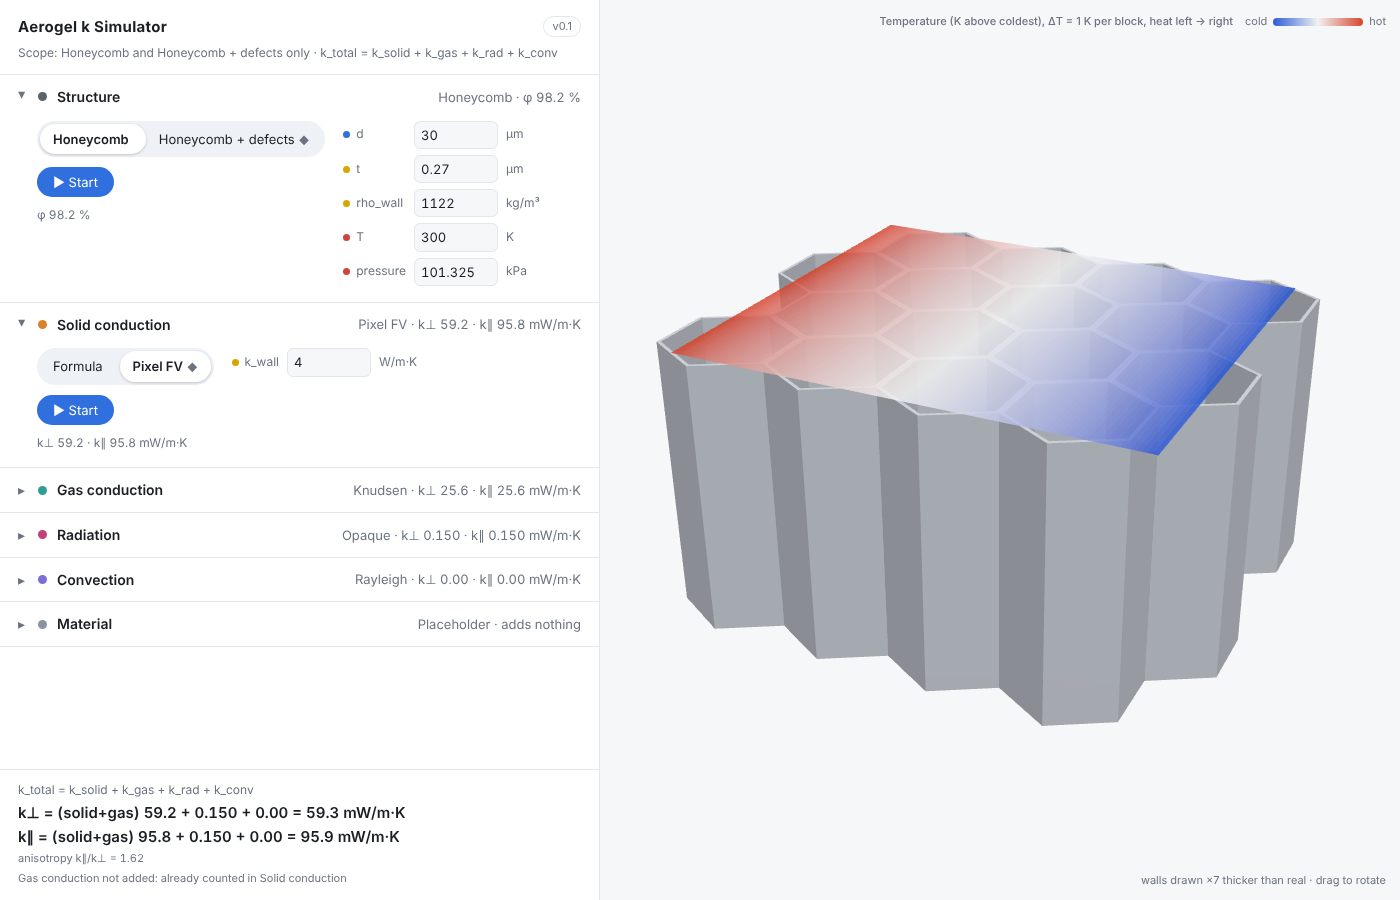
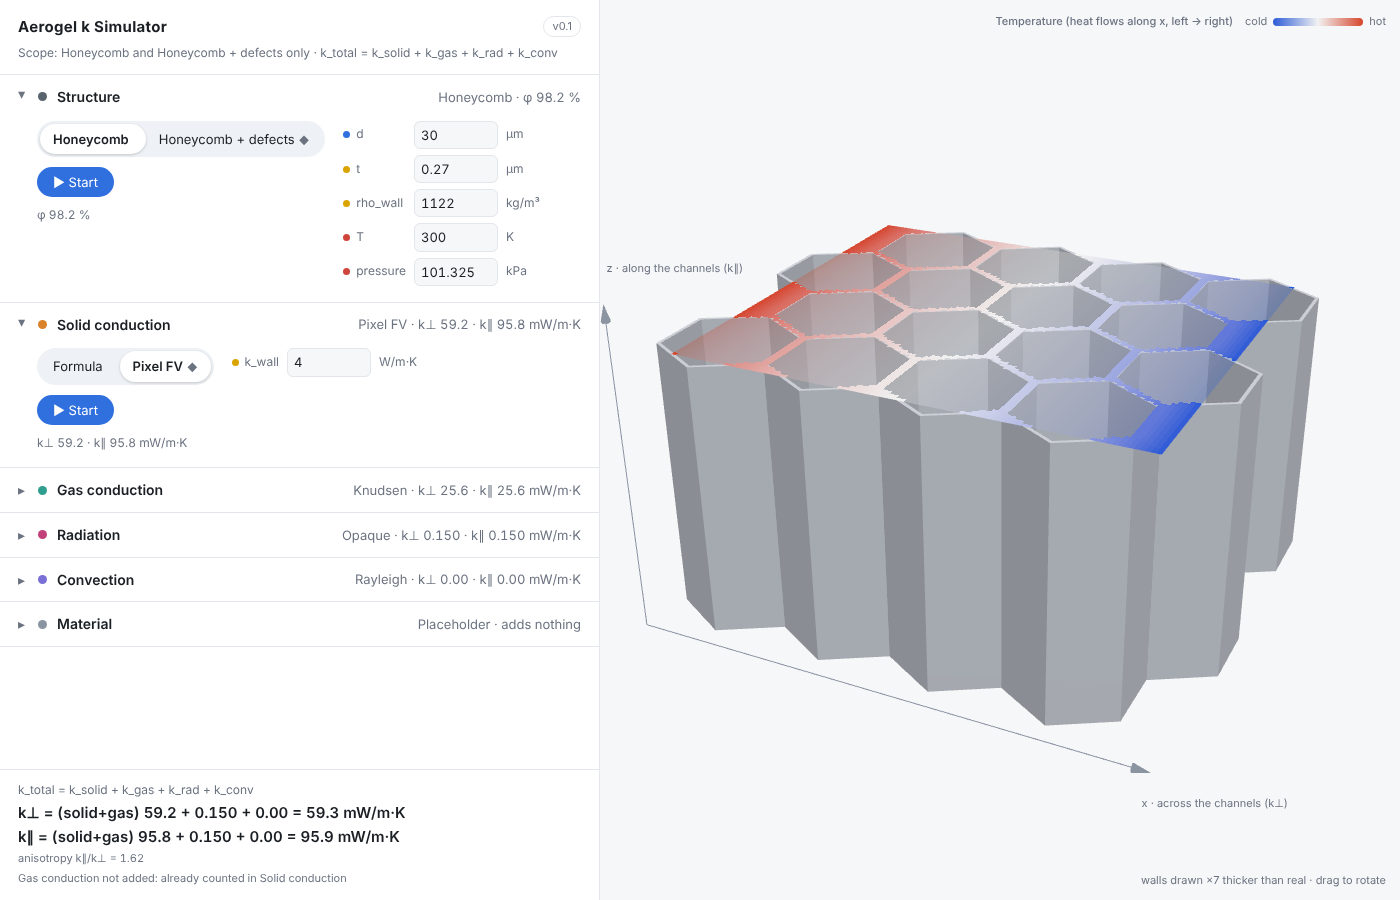
Fix 3D view and labels; list open issues in README; note GNSS clean-up
- Field overlay is solid on wall tops and faint over the air, so the channels
  stay visible instead of being covered by a lid.
- Axis arrows label z (along, k∥) and x (across, k⊥); words from ui_text.py.
- Shorter temperature legend; labels clipped to the 3D view.
- README: Notes and unfinished issues (gas pore-size definition, hypothetical
  ray-tracing inputs, unverified page numbers, staircase, measured gap, repo
  housekeeping). No new backend methods.
- HANDOVER: record the GNSS folder removal and the remaining branches.

Claude-Session: https://claude.ai/code/session_0143oVsGXh4V8fwmnWfhskgN

diff --git a/web/app.js b/web/app.js
@@ -169,6 +169,12 @@ const wallMat = new THREE.MeshStandardMaterial({ color: 0xd9dde3, roughness: 0.6
 const DEPTH = 3;   // scene units along the channels
 let box = [1, 1];  // block size in µm, from the backend
 let scale = 1;     // scene units per µm
+let isWall = () => true; // (fx, fy) in 0..1 of the block → is there wall here? (for the field overlay)
+
+// Flat-to-flat size of the hexagon (pointy-top, flats facing ±x) that passes through (dx, dy).
+function hexSize(dx, dy) {
+  return 2 * Math.max(Math.abs(dx), Math.abs(0.5 * dx + 0.866 * dy), Math.abs(-0.5 * dx + 0.866 * dy));
+}
 
 function hexPoints(r, cx, cy) {
   const p = [];
@@ -194,6 +200,11 @@ function buildStructure(geo) {
       return s;
     });
     group.add(new THREE.Mesh(new THREE.ExtrudeGeometry(shapes, { depth: DEPTH, bevelEnabled: false }), wallMat));
+    isWall = (fx, fy) => {
+      const x = fx * box[0], y = fy * box[1];
+      const h = Math.min(...geo.centres.map(([cx, cy]) => hexSize(x - cx, y - cy)));
+      return h > geo.pitch - geo.wall;
+    };
   } else if (geo.kind === "pixels") {
     const ny = geo.wall.length, nx = geo.wall[0].length, w = box[0] / nx * scale, h = box[1] / ny * scale;
     let count = 0;
@@ -208,8 +219,10 @@ function buildStructure(geo) {
       }
     });
     group.add(mesh);
+    isWall = (fx, fy) => geo.wall[Math.min(ny - 1, Math.floor(fy * ny))][Math.min(nx - 1, Math.floor(fx * nx))] === "1";
   }
   group.position.y = -DEPTH / 2;
+  placeAxes();
 }
 
 let fieldMesh = null;
@@ -227,17 +240,40 @@ function showField(field) {
   rows.forEach((line, j) => line.forEach((v, i) => {
     const f = v === null || hi === lo ? 0.5 : (v - lo) / (hi - lo);
     if (f < 0.5) c.lerpColors(blue, white, f * 2); else c.lerpColors(white, red, f * 2 - 1);
-    data.set([c.r * 255, c.g * 255, c.b * 255, 215], (j * nx + i) * 4);
+    const alpha = v === null ? 0 : isWall((i + 0.5) / nx, (j + 0.5) / ny) ? 255 : 70;
+    data.set([c.r * 255, c.g * 255, c.b * 255, alpha], (j * nx + i) * 4);
   }));
   const tex = new THREE.DataTexture(data, nx, ny);
   tex.needsUpdate = true;
   fieldMesh = new THREE.Mesh(new THREE.PlaneGeometry(box[0] * scale, box[1] * scale),
-    new THREE.MeshBasicMaterial({ map: tex, transparent: true, side: THREE.DoubleSide }));
+    new THREE.MeshBasicMaterial({ map: tex, transparent: true, depthWrite: false, side: THREE.DoubleSide }));
   fieldMesh.position.z = DEPTH + 0.01;
   group.add(fieldMesh);
   document.getElementById("legend-name").textContent = field.name;
   document.getElementById("legend-low").textContent = field.low;
   document.getElementById("legend-high").textContent = field.high;
+}
+
+// Axis arrows: z = along the channels (k∥), x = across (k⊥, the direction of the 2D runs).
+const axisColor = 0x8b94a1;
+const axes = [new THREE.ArrowHelper(new THREE.Vector3(0, 0, 1), new THREE.Vector3(), 1, axisColor, 0.18, 0.1),
+              new THREE.ArrowHelper(new THREE.Vector3(1, 0, 0), new THREE.Vector3(), 1, axisColor, 0.18, 0.1)];
+const axisTips = [new THREE.Vector3(), new THREE.Vector3()];
+function placeAxes() {
+  const x0 = -box[0] * scale / 2 - 0.4, y0 = -box[1] * scale / 2 - 0.4;
+  axes[0].position.set(x0, y0, 0); axes[0].setLength(DEPTH + 0.6, 0.18, 0.1);
+  axes[1].position.set(x0, y0, 0); axes[1].setLength(box[0] * scale + 0.6, 0.18, 0.1);
+  axisTips[0].set(x0, y0, DEPTH + 0.95);
+  axisTips[1].set(x0 + box[0] * scale + 0.6, y0 - 0.45, 0);
+  axes.forEach(a => group.add(a));
+}
+function drawAxisLabels() {
+  ["axis-par", "axis-trans"].forEach((id, k) => {
+    const p = axisTips[k].clone().applyMatrix4(group.matrixWorld).project(camera);
+    const el = document.getElementById(id);
+    el.style.left = ((p.x + 1) / 2 * host.clientWidth) + "px";
+    el.style.top = ((1 - p.y) / 2 * host.clientHeight) + "px";
+  });
 }
 
 async function loadStructure() { buildStructure(await api("/api/structure")); }
@@ -250,7 +286,7 @@ function resize() {
 }
 addEventListener("resize", resize);
 resize();
-renderer.setAnimationLoop(() => { controls.update(); renderer.render(scene, camera); });
+renderer.setAnimationLoop(() => { controls.update(); renderer.render(scene, camera); drawAxisLabels(); });
 controls.addEventListener("start", () => { controls.autoRotate = false; });
 
 // ---------------- start ----------------
@@ -262,6 +298,8 @@ document.title = UI.TITLE;
 document.getElementById("title").textContent = UI.TITLE;
 document.getElementById("badge").textContent = UI.BADGE;
 document.getElementById("reminder").textContent = UI.REMINDER;
+document.getElementById("axis-par").textContent = UI.AXIS_PAR;
+document.getElementById("axis-trans").textContent = UI.AXIS_TRANS;
 ROWS.forEach(buildRow);
 renderFooter();
 await loadStructure();

diff --git a/web/style.css b/web/style.css
@@ -58,7 +58,7 @@ footer .line { font-size: 15px; font-weight: 600; margin-top: 3px; }
 footer .small { color: var(--muted); font-size: 11px; margin-top: 4px; }
 footer.stale .line { opacity: .45; }
 footer .stale-text { color: var(--error); font-size: 12px; margin-top: 4px; }
-main { position: relative; min-width: 0; }
+main { position: relative; min-width: 0; overflow: hidden; }
 #view { position: absolute; inset: 0; }
 .note { position: absolute; right: 14px; bottom: 12px; color: var(--muted); font-size: 11px; }
 .legend { position: absolute; right: 14px; top: 14px; font-size: 11px; color: var(--muted); display: flex; align-items: center; gap: 6px; }
@@ -74,3 +74,4 @@ main { position: relative; min-width: 0; }
   .rows { overflow: visible; }
   main { height: 55vh; }
 }
+.axis { position: absolute; left: 0; top: 0; font-size: 11px; color: var(--muted); white-space: nowrap; pointer-events: none; transform: translate(8px, -50%); }

diff --git a/web/index.html b/web/index.html
@@ -22,6 +22,8 @@
     <div id="view"></div>
     <div class="legend" id="legend" hidden><b id="legend-name"></b><span id="legend-low"></span><i></i><span id="legend-high"></span></div>
     <div class="note" id="note"></div>
+    <div class="axis" id="axis-par"></div>
+    <div class="axis" id="axis-trans"></div>
   </main>
 </div>
 <div id="tip"></div>

diff --git a/aerosim/solid/pixel_fv.py b/aerosim/solid/pixel_fv.py
@@ -93,7 +93,7 @@ def run(structure, inputs, conditions):
             "covers solid + gas together: the Gas row is not added again",
         ],
         "field": {
-            "name": "Temperature (K above coldest), ΔT = 1 K per block, heat left → right",
+            "name": "Temperature (heat flows along x, left → right)",
             "values": T[::stride, ::stride].round(3).tolist(),
             "low": "cold",
             "high": "hot",

diff --git a/aerosim/core/ui_text.py b/aerosim/core/ui_text.py
@@ -26,6 +26,8 @@ SKIPPED = "{row} not added: already counted in {by}"
 
 # 3D view
 WALL_NOTE = "walls drawn ×{scale} thicker than real · drag to rotate"
+AXIS_PAR = "z · along the channels (k∥)"
+AXIS_TRANS = "x · across the channels (k⊥)"
 
 # Input status dots
 STATUS = {

diff --git a/README.md b/README.md
@@ -98,6 +98,24 @@ pyproject.toml         dependencies, ruff style, pytest settings
 
 A **new folder** with an `__init__.py` holding `ROW`, `ORDER`, `HELP`, `COLOR` becomes a **new row**. The structure row must stay first.
 
+## Notes and unfinished issues
+Open questions from the v0.1 build check (2026-11-15). **No more backend methods are planned for now.** These are notes, not tasks in progress.
+
+1. **What "pore size" means for gas in a hex channel.**
+   - Local Kn treats the pore size d as the gap.
+   - Monte Carlo finds that a hex channel behaves like a gap of about d/2, and the pixel staircase lowers it by about 10 % more.
+   - At 1 atm the effect on k is under 1 %, but the definition matters at low pressure. It is a fair point to discuss in the report.
+2. **Ray tracing (0.46 mW/m·K at the defaults) depends entirely on two hypothetical wall inputs:** IR absorption κ_w and reflectance. Replace them once the reflectance spectra are measured. Until then, read the radiation term as an order of magnitude.
+3. **Source page numbers are not verified yet.** Check every citation in `docs/PHYSICS.md` and the method files against the original papers before the interim report. Also check the Collishaw & Evans DOI, which differs between databases, and the author list of the 2021 CNF/BN paper.
+4. **Pixel FV on the ideal honeycomb:** k_x and k_y differ by 5.5 % because of the pixel staircase. Only their mean is checked against the formula.
+5. **Measured vs model gap:**
+   - Chan 2022 measured k⊥ = 16.9 mW/m·K, which is below the air-only floor (≈ 26 mW/m·K) of any air-filled micron-channel model.
+   - Cracks raise the model's anisotropy from 1.6 to about 2.0; the measured value is ≈ 5.8.
+   - Compare trends, not absolute values (see `docs/PLAN.md` §2).
+6. **GitHub housekeeping (repo settings, outside the code):**
+   - Set the repository's default branch to `main` (Settings → Branches).
+   - The merged branches `claude/quirky-thompson-39y288` and `claude/beautiful-tesla-ro162g` still contain the removed AAE4203 GNSS lab folder and can be deleted.
+
 ## Other repo contents
 - [`HANDOVER.md`](HANDOVER.md) — handover: original goal, state, change log, sessions
 - [`guide/`](guide/) — full contents of the handover zip `FYP_Handover_2026-10-29.zip` (start at `guide/summary.md`; read-only)

diff --git a/HANDOVER.md b/HANDOVER.md
@@ -23,8 +23,10 @@ Plan `docs/PLAN.md` (v0.2, plus `docs/COUNCIL_SETUP.md` for the council orchestr
 | 10-29 | `e552301` | Simulator build plan and council review brief |
 | 10-29 | `84ef349` | Plan and brief revised against the meeting transcript; council setup notes |
 | 10-29 | `e2a9de5`, `9f2105b` | Handover zip contents under `guide/`; Legion MCP test results; corrected council model names |
-| 10-30 | `587239f`, `8c01bcb` | GNSS Lab 1 folder: data, processing, report, GIFs, figures, benchmark baseline |
+| 10-30 | `587239f`, `8c01bcb` | GNSS Lab 1 folder: data, processing, report, GIFs, figures, benchmark baseline (removed from this repo on 11-15 in `a72c77a`; it lives in `AAE-4004-lab`) |
 | 11-13 | handover | `main` created by merging both branches above, plus this file |
+| 11-15 | `da8de1a` … `8f10105` | Design session merged; v0.1 simulator built (`aerosim/`, `web/`, `.agent/`) |
+| 11-15 | `a72c77a` | AAE4203 GNSS Lab 1 folder removed (unrelated coursework) |
 
 ## Sessions
 `session_0143oVsKsbxuFFSfjRSorAqD` PolyU exchange simulation tool (10-29, blocked on council) ·
@@ -33,4 +35,4 @@ Plan `docs/PLAN.md` (v0.2, plus `docs/COUNCIL_SETUP.md` for the council orchestr
 `session_0143oVsGXh4V8fwmnWfhskgN` Repository memory search (11-12).
 
 ## Branches
-Before this handover the repo had no `main`; GitHub's default branch is still `claude/compassionate-lamport-ff9nt6` (plan only). Set the default to `main` in Settings, Branches. The old `claude/*` branches (`admiring-pascal`, `quirky-thompson`, `compassionate-lamport`) are merged and can be deleted.
+Before this handover the repo had no `main`; GitHub's default branch is still `claude/compassionate-lamport-ff9nt6` (plan only). Set the default to `main` in Settings, Branches. The old `claude/*` branches (`admiring-pascal`, `quirky-thompson`, `compassionate-lamport`, `beautiful-tesla`, `gifted-volta`) are merged and can be deleted. `quirky-thompson` and `beautiful-tesla` still contain the removed GNSS lab folder.
